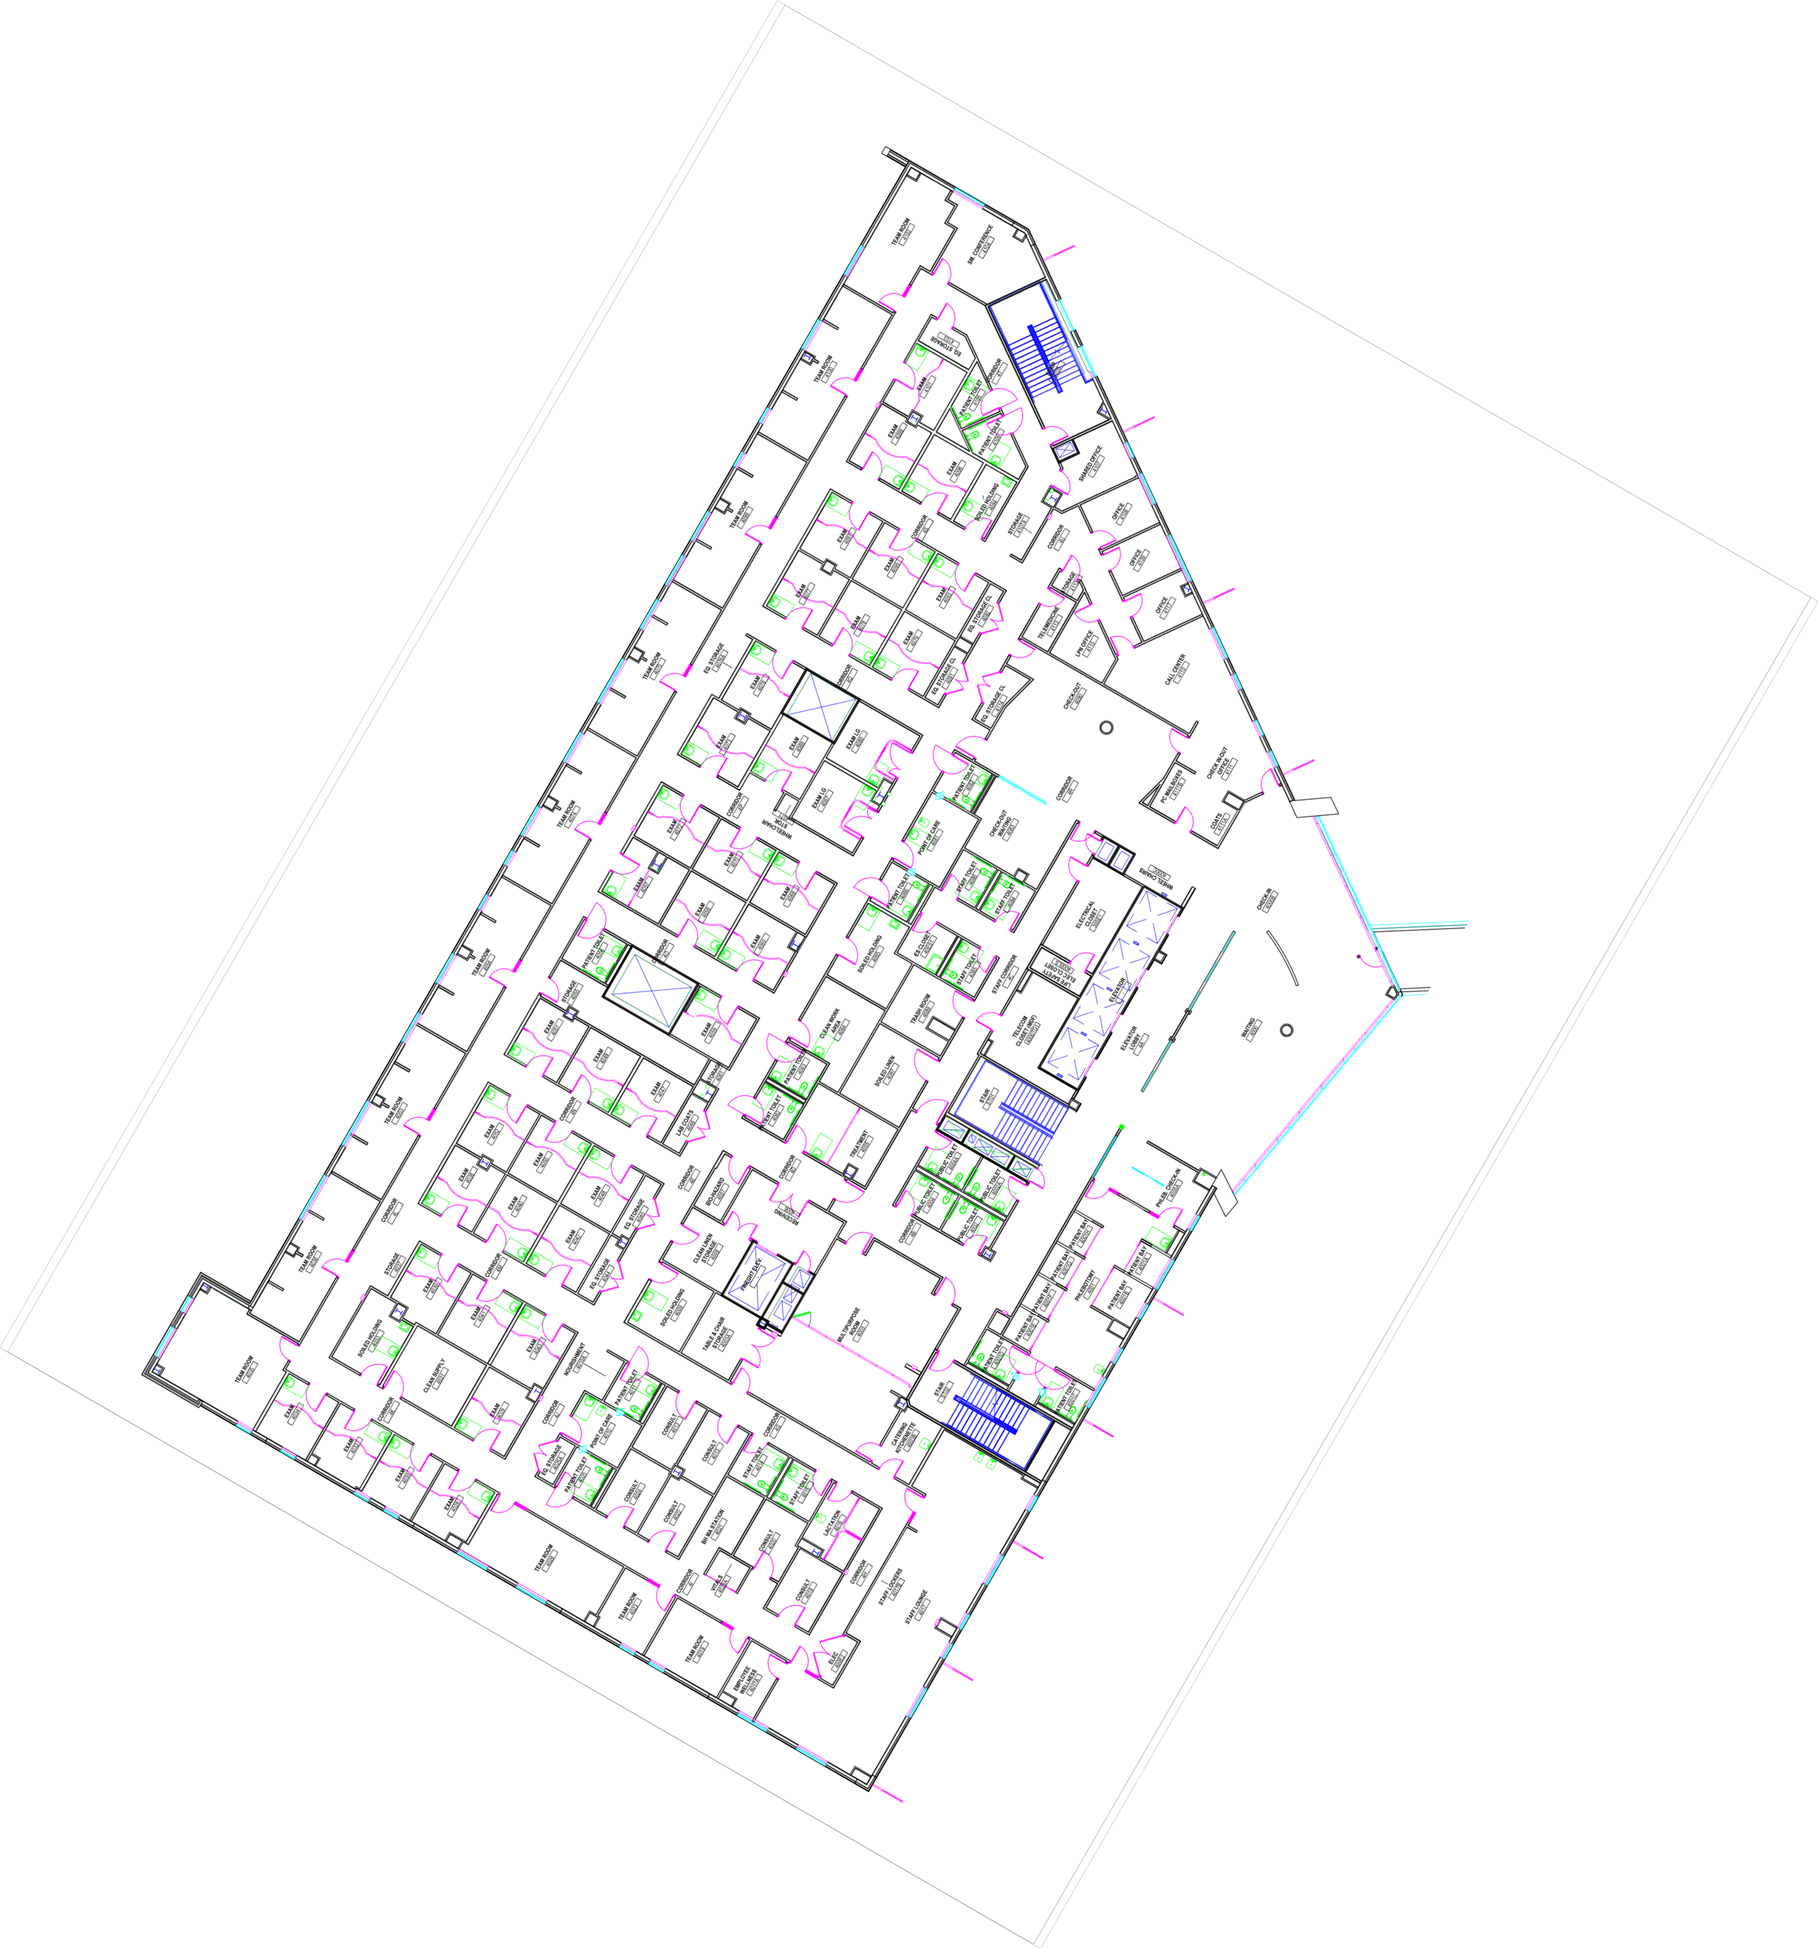
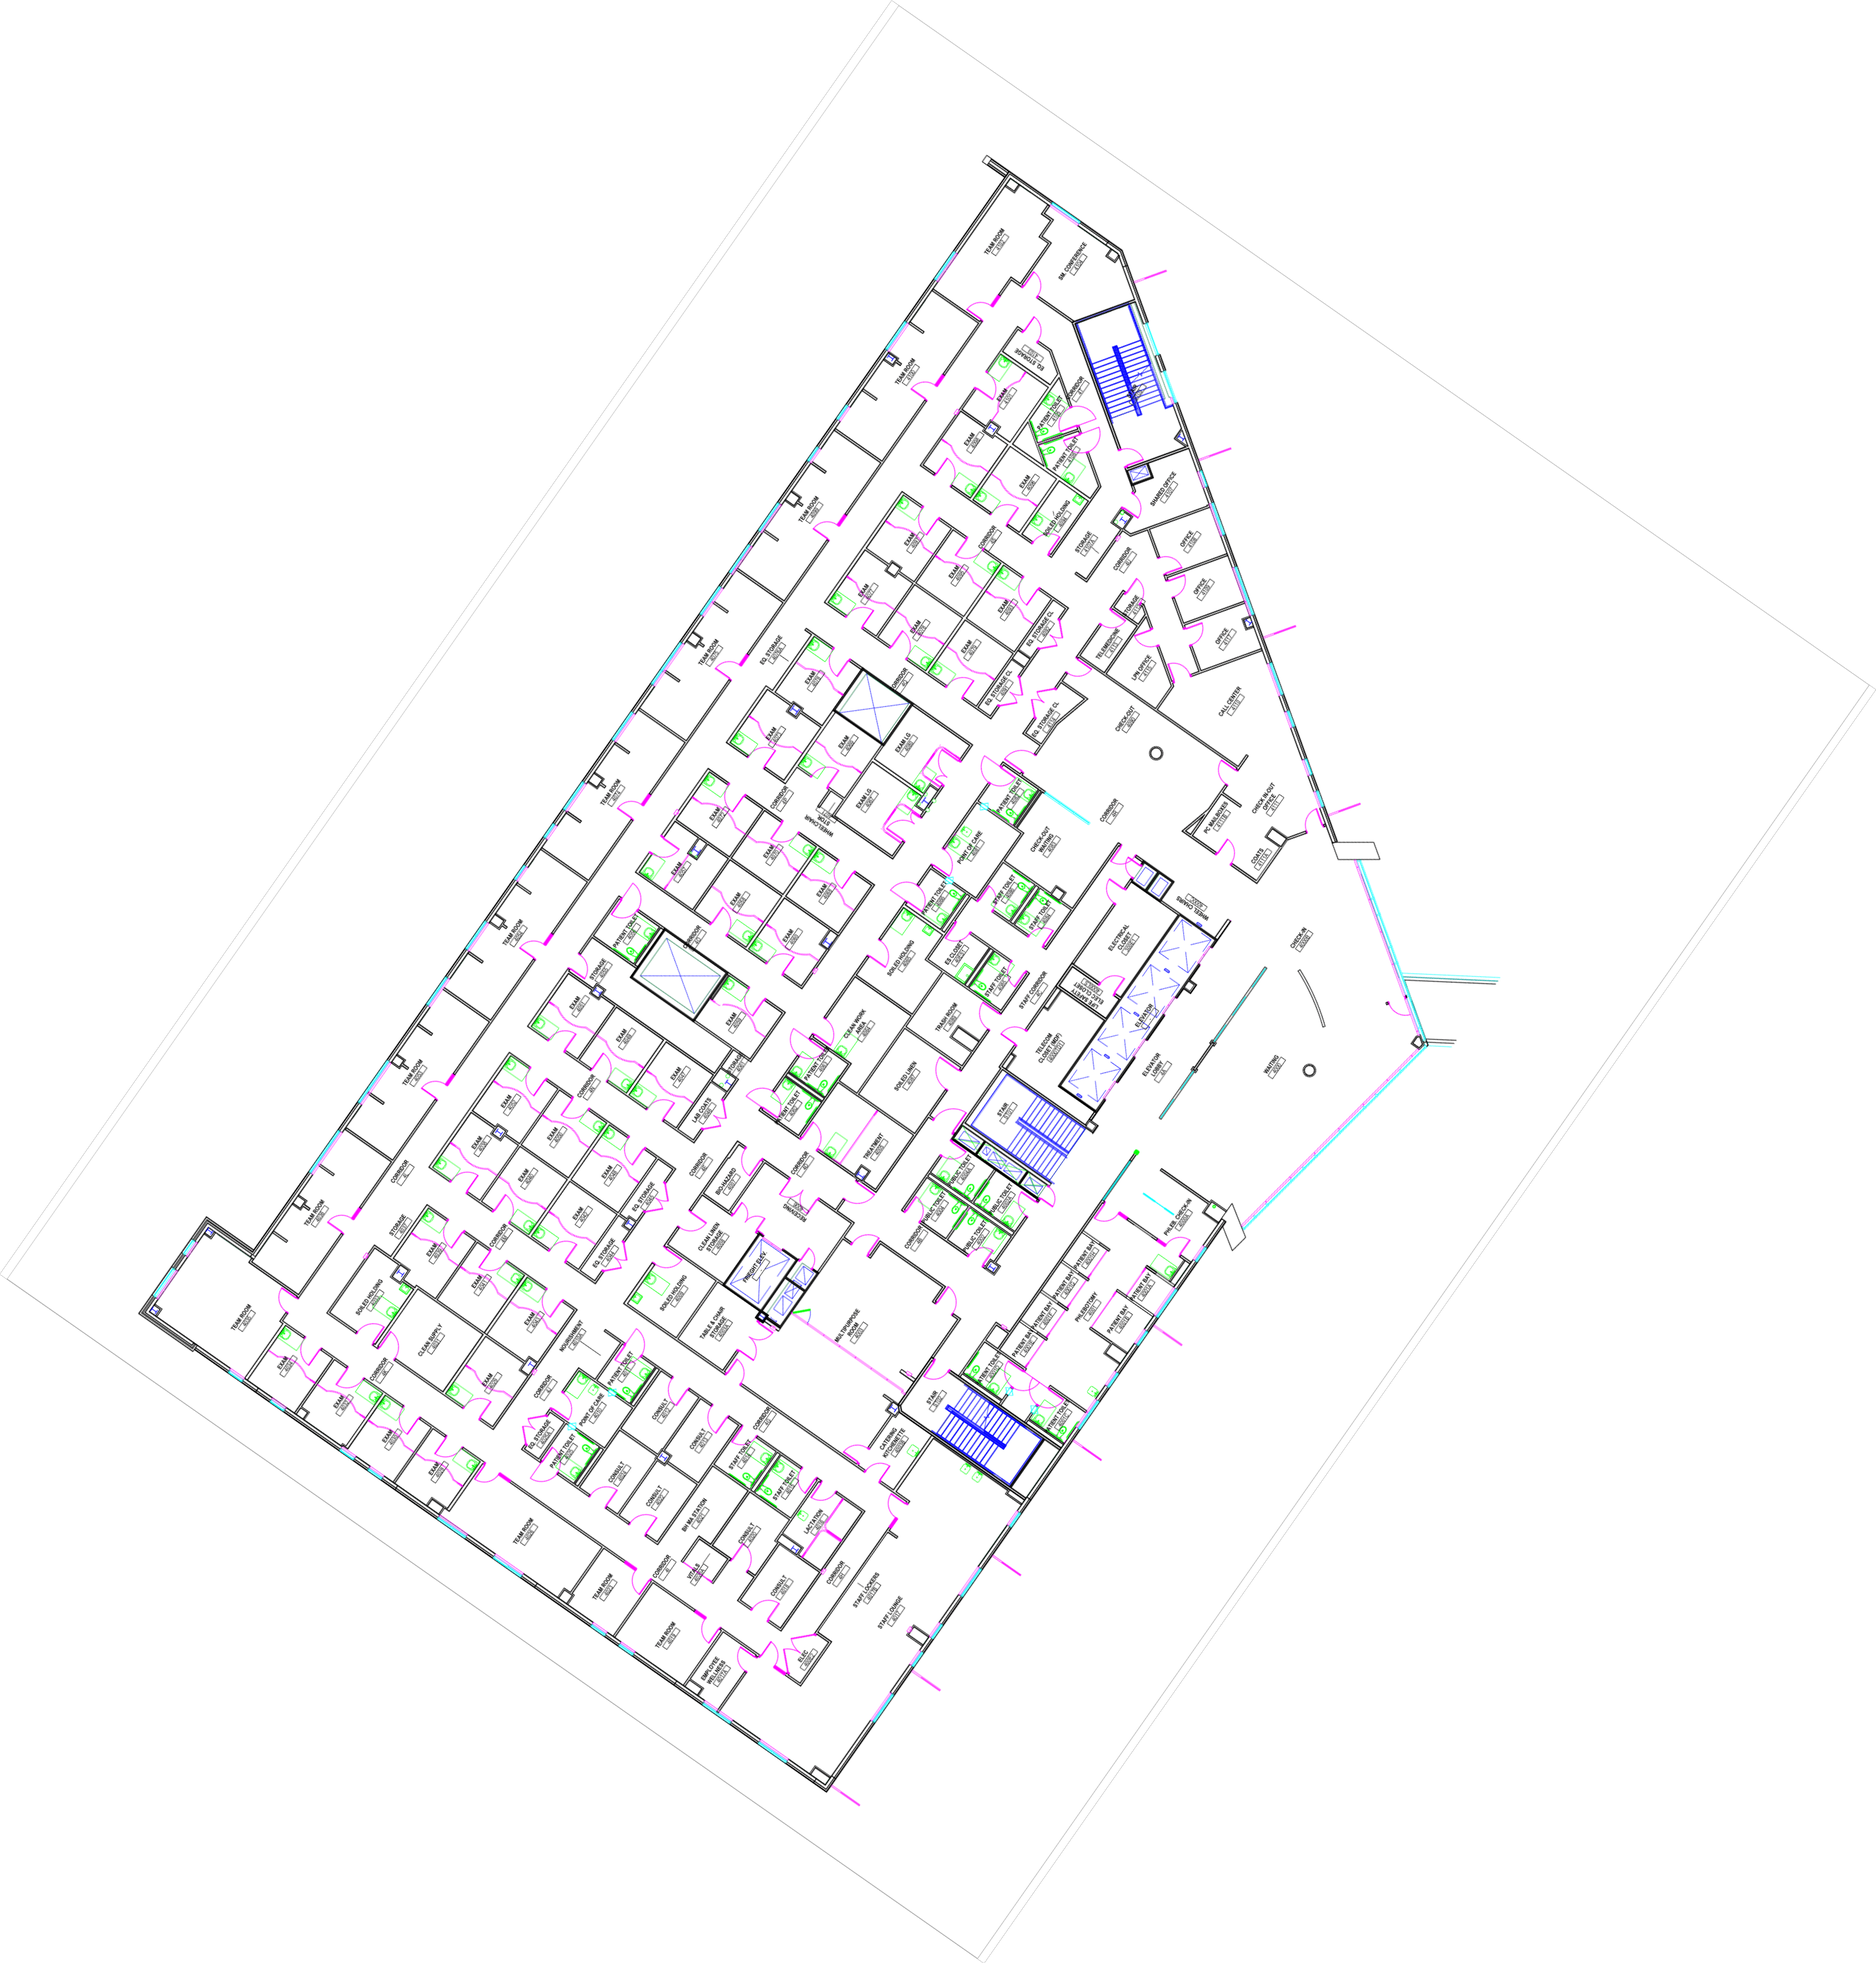
floor 4 and 3 alignment changes

Changed region(s): [[0.0622, 0.0624, 0.8087, 0.9365], [0.6843, 0.5619, 0.7154, 0.5931]]

diff --git a/apps/frontend/src/components/map/overlays/22PatriotOverlay.tsx b/apps/frontend/src/components/map/overlays/22PatriotOverlay.tsx
@@ -10,8 +10,8 @@ export interface Patriot22Overlays {
 
 export const createPatriot22Overlays = (map: google.maps.Map) => {
 
-  const coordinates_3: number[] = [42.09322172680363 , 42.09201369047704 , -71.26622819612582 , -71.2677076155335]
-  const coordinates_4: number[] = [42.09314767792817 , 42.09214288457211 , -71.26627145841628 , -71.26757512703385]
+  const coordinates_3: number[] = [42.09319426546392 , 42.09195597432981 , -71.26619891316744 , -71.26765735462097]
+  const coordinates_4: number[] = [42.09317400927991 , 42.092096082400786 , -71.26633478170012 , -71.26760748755561]
 
   const bounds = {
     north: coordinates_3[0],
